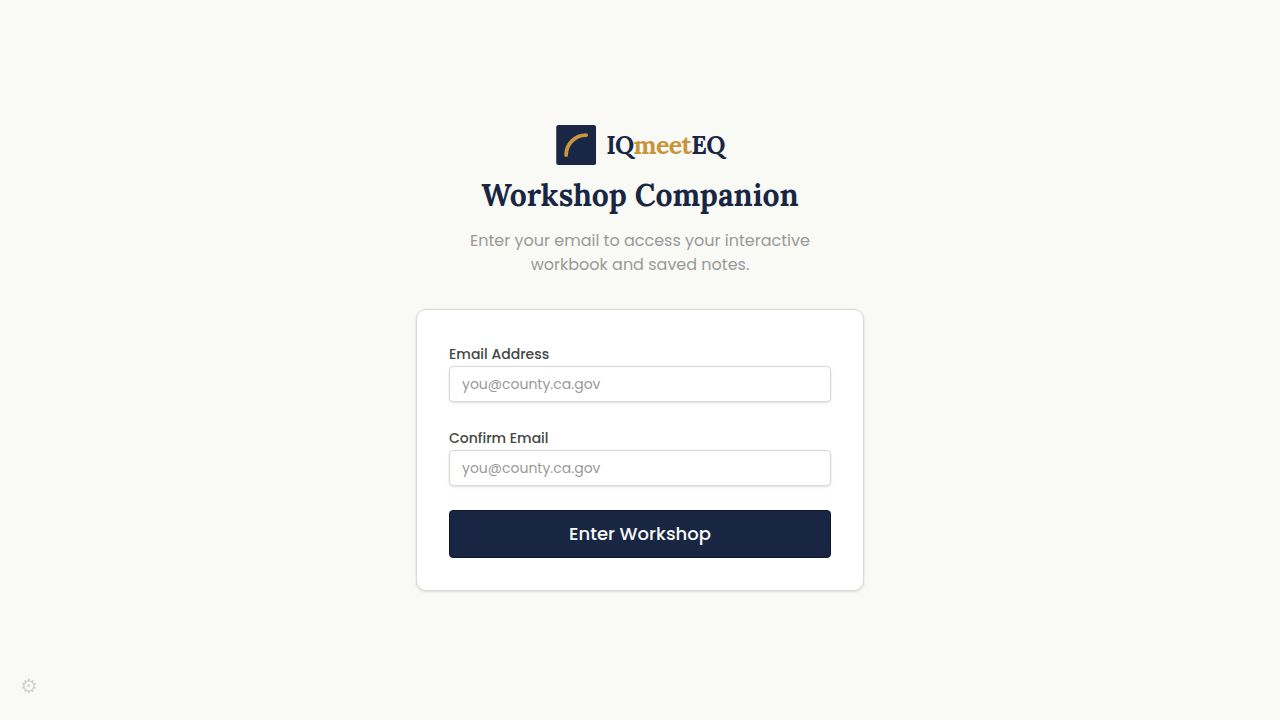
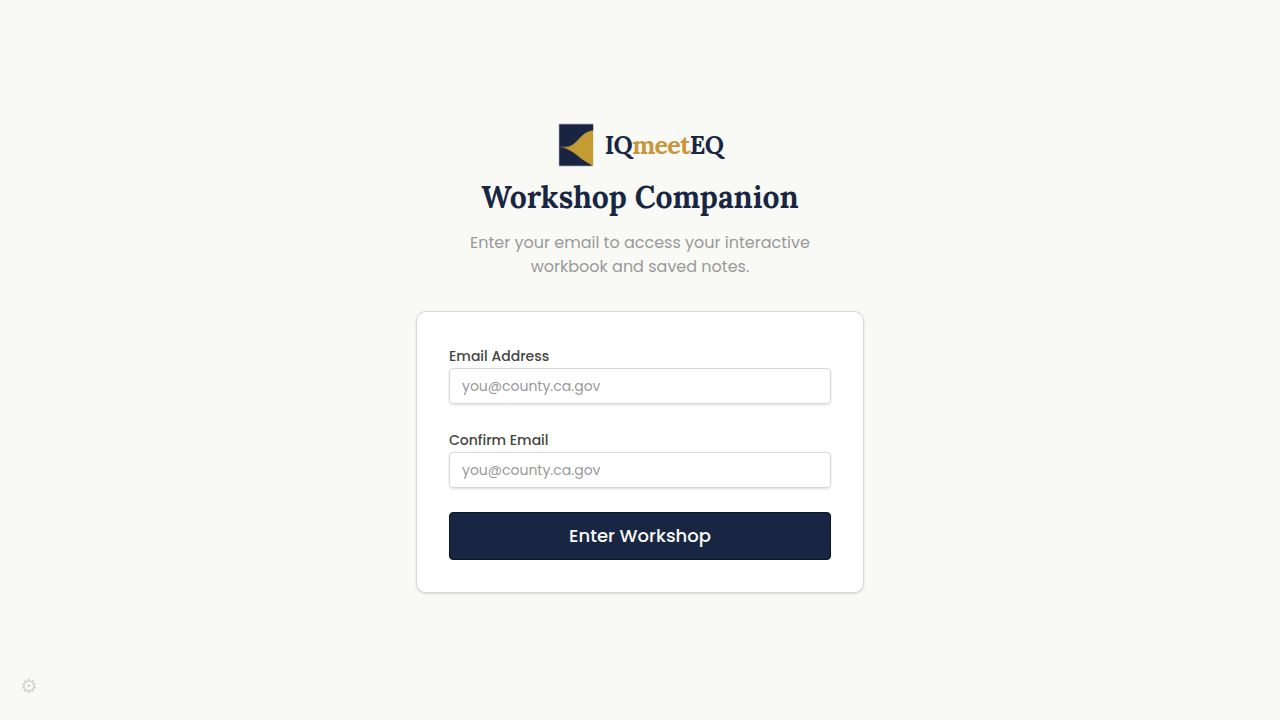
Update workshop layout and content with new branding and features
Refactors the UI to incorporate a new brand mark, updates navigation links, modifies home and levels page content, and improves sidebar scrolling.

Replit-Commit-Author: Agent
Replit-Commit-Session-Id: 661a2d37-a1e4-45c3-94af-ed7bbc948c7f
Replit-Commit-Checkpoint-Type: full_checkpoint
Replit-Commit-Event-Id: d82bc737-d57d-4fe6-83f4-37d64c1f3156
Replit-Commit-Screenshot-Url: https://storage.googleapis.com/screenshot-production-us-central1/9aa2cd1d-1f58-47c5-8a5d-275233749aaa/661a2d37-a1e4-45c3-94af-ed7bbc948c7f/LWh1Ea7
Replit-Helium-Checkpoint-Created: true

diff --git a/artifacts/workshop/src/components/workshop/TopNav.tsx b/artifacts/workshop/src/components/workshop/TopNav.tsx
@@ -16,7 +16,7 @@ export function TopNav({ onLogoClick }: TopNavProps) {
   const [code, setCode] = useState("");
   const unlockMutation = useUnlockSection();
   const { toast } = useToast();
-  
+
   const [feedbackOpen, setFeedbackOpen] = useState(false);
   const [feedbackText, setFeedbackText] = useState("");
   const feedbackMutation = useSaveFeedback();
@@ -34,9 +34,6 @@ export function TopNav({ onLogoClick }: TopNavProps) {
             description: `You now have access to: ${data.sectionTitle}`,
           });
           setCode("");
-          // Note: In a real app we'd probably trigger a refetch of sections here.
-          // Since we might not have the refetch function passed down, we rely on the parent or query cache invalidation.
-          // Or we can just let it be if the sections list updates.
           window.dispatchEvent(new Event('sections-updated'));
         },
         onError: () => {
@@ -73,11 +70,11 @@ export function TopNav({ onLogoClick }: TopNavProps) {
         <div className={onLogoClick ? "cursor-pointer" : ""} onClick={onLogoClick}>
           <Logo />
         </div>
-        
-        <div className="flex items-center gap-6">
+
+        <div className="flex items-center gap-4">
           <form onSubmit={handleUnlock} className="hidden md:flex items-center gap-2">
-            <Input 
-              placeholder="Enter Code" 
+            <Input
+              placeholder="Enter Code"
               value={code}
               onChange={(e) => setCode(e.target.value)}
               className="w-32 uppercase"
@@ -88,44 +85,64 @@ export function TopNav({ onLogoClick }: TopNavProps) {
             </Button>
           </form>
 
-          <nav className="hidden lg:flex items-center gap-4 text-sm font-medium text-muted-foreground">
-            <a href="https://headandheartca.com/resources" target="_blank" rel="noopener noreferrer" className="hover:text-primary transition-colors">
-              Resources
-            </a>
-            <a href="https://headandheartca.com/connect" target="_blank" rel="noopener noreferrer" className="hover:text-primary transition-colors">
-              Talk with Anthony
-            </a>
-            
-            <Dialog open={feedbackOpen} onOpenChange={setFeedbackOpen}>
-              <DialogTrigger asChild>
-                <button className="hover:text-primary transition-colors" data-testid="link-feedback">
-                  What Would You Like to Learn Next?
-                </button>
-              </DialogTrigger>
-              <DialogContent>
-                <DialogHeader>
-                  <DialogTitle>What Would You Like to Learn Next?</DialogTitle>
-                </DialogHeader>
-                <div className="space-y-4 py-4">
-                  <p className="text-sm text-muted-foreground">
-                    Your feedback helps us design future workshops and materials.
-                  </p>
-                  <Textarea 
-                    placeholder="Tell us what topics you'd like us to cover..."
-                    value={feedbackText}
-                    onChange={(e) => setFeedbackText(e.target.value)}
-                    className="min-h-[100px]"
-                    data-testid="input-feedback"
-                  />
-                  <Button onClick={submitFeedback} disabled={feedbackMutation.isPending} data-testid="button-submit-feedback">
-                    Submit
-                  </Button>
-                </div>
-              </DialogContent>
-            </Dialog>
-          </nav>
+          <a
+            href="https://talkwithanthony.com"
+            target="_blank"
+            rel="noopener noreferrer"
+            className="hidden lg:block text-sm font-medium text-muted-foreground hover:text-primary transition-colors"
+          >
+            Talk with Anthony
+          </a>
         </div>
       </div>
     </header>
+  );
+}
+
+export function FeedbackDialog({ open, onOpenChange }: { open: boolean; onOpenChange: (v: boolean) => void }) {
+  const [feedbackText, setFeedbackText] = useState("");
+  const feedbackMutation = useSaveFeedback();
+  const { toast } = useToast();
+
+  const submitFeedback = () => {
+    if (!feedbackText.trim()) return;
+    feedbackMutation.mutate(
+      { data: { content: feedbackText } },
+      {
+        onSuccess: () => {
+          toast({ title: "Feedback Submitted", description: "Thank you for your thoughts!" });
+          onOpenChange(false);
+          setFeedbackText("");
+        },
+        onError: () => {
+          toast({ variant: "destructive", title: "Error", description: "Could not submit feedback." });
+        }
+      }
+    );
+  };
+
+  return (
+    <Dialog open={open} onOpenChange={onOpenChange}>
+      <DialogContent>
+        <DialogHeader>
+          <DialogTitle>What should we teach next?</DialogTitle>
+        </DialogHeader>
+        <div className="space-y-4 py-4">
+          <p className="text-sm text-muted-foreground">
+            Tell us what you're working on, what you're stuck on, or what you'd like to go deeper on. We use this to shape future workshops and follow-up support.
+          </p>
+          <Textarea
+            placeholder="Share your thoughts..."
+            value={feedbackText}
+            onChange={(e) => setFeedbackText(e.target.value)}
+            className="min-h-[100px]"
+            data-testid="input-feedback"
+          />
+          <Button onClick={submitFeedback} disabled={feedbackMutation.isPending} data-testid="button-submit-feedback">
+            Submit
+          </Button>
+        </div>
+      </DialogContent>
+    </Dialog>
   );
 }

diff --git a/artifacts/workshop/src/pages/home.tsx b/artifacts/workshop/src/pages/home.tsx
@@ -3,6 +3,7 @@ import { useLocation } from "wouter";
 import { useGetSections } from "@workspace/api-client-react";
 import { getSession, clearSession } from "@/lib/auth";
 import { Logo } from "@/components/logo";
+import { FeedbackDialog } from "@/components/workshop/TopNav";
 
 const BASE = import.meta.env.BASE_URL.replace(/\/$/, "");
 
@@ -14,6 +15,7 @@ export default function Home() {
   const [code, setCode] = useState("");
   const [codeMsg, setCodeMsg] = useState("");
   const [codePending, setCodePending] = useState(false);
+  const [feedbackOpen, setFeedbackOpen] = useState(false);
 
   useEffect(() => {
     if (!session) { setLocation("/"); return; }
@@ -104,7 +106,7 @@ export default function Home() {
         </div>
 
         <div className="bg-card border border-border rounded-lg p-5">
-          <div className="text-sm font-bold text-primary mb-3">Your Progress</div>
+          <div className="text-sm font-bold text-primary mb-3">Workshop Progress</div>
           <div className="h-2 bg-secondary rounded-full overflow-hidden mb-2">
             <div className="h-full bg-accent rounded-full transition-all" style={{ width: `${progressPct}%` }} />
           </div>
@@ -113,27 +115,29 @@ export default function Home() {
 
         <div className="grid grid-cols-1 sm:grid-cols-3 gap-4">
           <button
-            onClick={() => setLocation("/workshop?section=levels")}
+            onClick={() => setFeedbackOpen(true)}
             className="bg-card border border-border rounded-lg p-5 text-left hover:border-accent transition-colors shadow-sm"
           >
-            <h4 className="font-bold text-primary text-sm mb-1">Where Are You on the Path?</h4>
-            <p className="text-xs text-muted-foreground">See your AI skill level</p>
-          </button>
-          <button
-            onClick={() => setLocation("/workshop?section=feedback")}
-            className="bg-card border border-border rounded-lg p-5 text-left hover:border-accent transition-colors shadow-sm"
-          >
-            <h4 className="font-bold text-primary text-sm mb-1">What Would You Like to Learn Next?</h4>
+            <h4 className="font-bold text-primary text-sm mb-1">What should we teach next?</h4>
             <p className="text-xs text-muted-foreground">Tell us what you need</p>
           </button>
           <a
-            href="https://calendly.com/anthonylevato/iqmeeteq"
+            href="https://talkwithanthony.com"
             target="_blank"
             rel="noopener noreferrer"
             className="bg-card border border-border rounded-lg p-5 text-left hover:border-accent transition-colors shadow-sm block"
           >
             <h4 className="font-bold text-primary text-sm mb-1">Talk with Anthony</h4>
             <p className="text-xs text-muted-foreground">Book a conversation</p>
+          </a>
+          <a
+            href="https://headandheartca.com/resources"
+            target="_blank"
+            rel="noopener noreferrer"
+            className="bg-card border border-border rounded-lg p-5 text-left hover:border-accent transition-colors shadow-sm block"
+          >
+            <h4 className="font-bold text-primary text-sm mb-1">Other Resources</h4>
+            <p className="text-xs text-muted-foreground">Additional content to support your journey</p>
           </a>
         </div>
 
@@ -155,6 +159,8 @@ export default function Home() {
           </button>
         </div>
       </main>
+
+      <FeedbackDialog open={feedbackOpen} onOpenChange={setFeedbackOpen} />
     </div>
   );
 }

diff --git a/artifacts/workshop/src/components/workshop/sections/Levels.tsx b/artifacts/workshop/src/components/workshop/sections/Levels.tsx
@@ -1,5 +1,9 @@
 import { useState } from "react";
 import { SectionHeader } from "../SectionHeader";
+import { useSaveFeedback } from "@workspace/api-client-react";
+import { useToast } from "@/hooks/use-toast";
+import { Textarea } from "@/components/ui/textarea";
+import { Button } from "@/components/ui/button";
 
 const levels = [
   {
@@ -67,10 +71,30 @@ const levels = [
 export function WhereAreYouOnThePath() {
   const [activeLevel, setActiveLevel] = useState(1);
   const level = levels[activeLevel - 1];
+  const [feedbackText, setFeedbackText] = useState("");
+  const feedbackMutation = useSaveFeedback();
+  const { toast } = useToast();
+
+  const submitFeedback = () => {
+    if (!feedbackText.trim()) return;
+    feedbackMutation.mutate(
+      { data: { content: feedbackText } },
+      {
+        onSuccess: () => {
+          toast({ title: "Submitted", description: "Thank you for your thoughts!" });
+          setFeedbackText("");
+        },
+        onError: () => {
+          toast({ variant: "destructive", title: "Error", description: "Could not submit feedback." });
+        }
+      }
+    );
+  };
 
   return (
     <div className="animate-in fade-in slide-in-from-bottom-4 duration-500">
       <SectionHeader title="Where Are You on the Path?" type="reference" />
+      <p className="text-sm text-muted-foreground -mt-4 mb-6">Self-assess your AI skill level</p>
 
       <div className="flex border-b border-border mb-6">
         {levels.map((l) => (
@@ -109,6 +133,23 @@ export function WhereAreYouOnThePath() {
             </li>
           ))}
         </ul>
+      </div>
+
+      <div className="mt-8 border-t border-border pt-8">
+        <h4 className="text-base font-bold text-primary mb-2">What should we teach next?</h4>
+        <p className="text-sm text-muted-foreground mb-4">
+          Tell us what you're working on, what you're stuck on, or what you'd like to go deeper on. We use this to shape future workshops and follow-up support.
+        </p>
+        <Textarea
+          placeholder="Share your thoughts..."
+          value={feedbackText}
+          onChange={(e) => setFeedbackText(e.target.value)}
+          className="min-h-[100px] mb-3"
+          data-testid="input-feedback-levels"
+        />
+        <Button onClick={submitFeedback} disabled={feedbackMutation.isPending}>
+          Submit
+        </Button>
       </div>
     </div>
   );

diff --git a/artifacts/workshop/src/components/logo.tsx b/artifacts/workshop/src/components/logo.tsx
@@ -1,24 +1,11 @@
-export function Logo({ className = "" }: { className?: string }) {
+import brandMark from "@assets/Brand_Mark_V20260402A_1775156884285.png";
+
+export function Logo({ className = "", variant = "default" }: { className?: string; variant?: "default" | "white" }) {
   return (
     <div className={`flex items-center gap-2 ${className}`}>
-      <svg
-        width="32"
-        height="32"
-        viewBox="0 0 32 32"
-        fill="none"
-        xmlns="http://www.w3.org/2000/svg"
-        className="rounded-sm"
-      >
-        <rect width="32" height="32" fill="#1A2744" />
-        <path
-          d="M8 24C8 15.1634 15.1634 8 24 8"
-          stroke="#C8963E"
-          strokeWidth="3"
-          strokeLinecap="round"
-        />
-      </svg>
-      <span className="font-serif font-bold text-primary text-xl tracking-tight">
-        IQ<span className="text-accent">meet</span>EQ
+      <img src={brandMark} alt="IQmeetEQ brand mark" className="h-9 w-auto rounded-sm flex-shrink-0" />
+      <span className={`font-serif font-bold text-xl tracking-tight ${variant === "white" ? "text-white" : "text-primary"}`}>
+        IQ<span className={variant === "white" ? "text-[#C8963E]" : "text-accent"}>meet</span>EQ
       </span>
     </div>
   );

diff --git a/artifacts/workshop/src/pages/admin/dashboard.tsx b/artifacts/workshop/src/pages/admin/dashboard.tsx
@@ -429,7 +429,7 @@ export default function AdminDashboard() {
             <TabsTrigger value="worksheets">Safari Worksheets</TabsTrigger>
             <TabsTrigger value="files">Files</TabsTrigger>
             <TabsTrigger value="home">Home Message</TabsTrigger>
-            <TabsTrigger value="feedback">Feedback</TabsTrigger>
+            <TabsTrigger value="feedback">What should we teach next?</TabsTrigger>
           </TabsList>
 
           <TabsContent value="participants">

diff --git a/artifacts/workshop/src/components/workshop/Sidebar.tsx b/artifacts/workshop/src/components/workshop/Sidebar.tsx
@@ -60,7 +60,7 @@ export function Sidebar({ sections, activeSectionId, onSelectSection, onNavigate
   );
 
   return (
-    <div className="w-64 border-r bg-card min-h-[calc(100vh-4rem)] py-4 overflow-y-auto hidden md:flex flex-col">
+    <div className="w-64 border-r bg-card h-full overflow-y-auto hidden md:flex flex-col flex-shrink-0">
       <div className="flex-1">
         <div className="mb-4 px-2 space-y-1">
           <button
